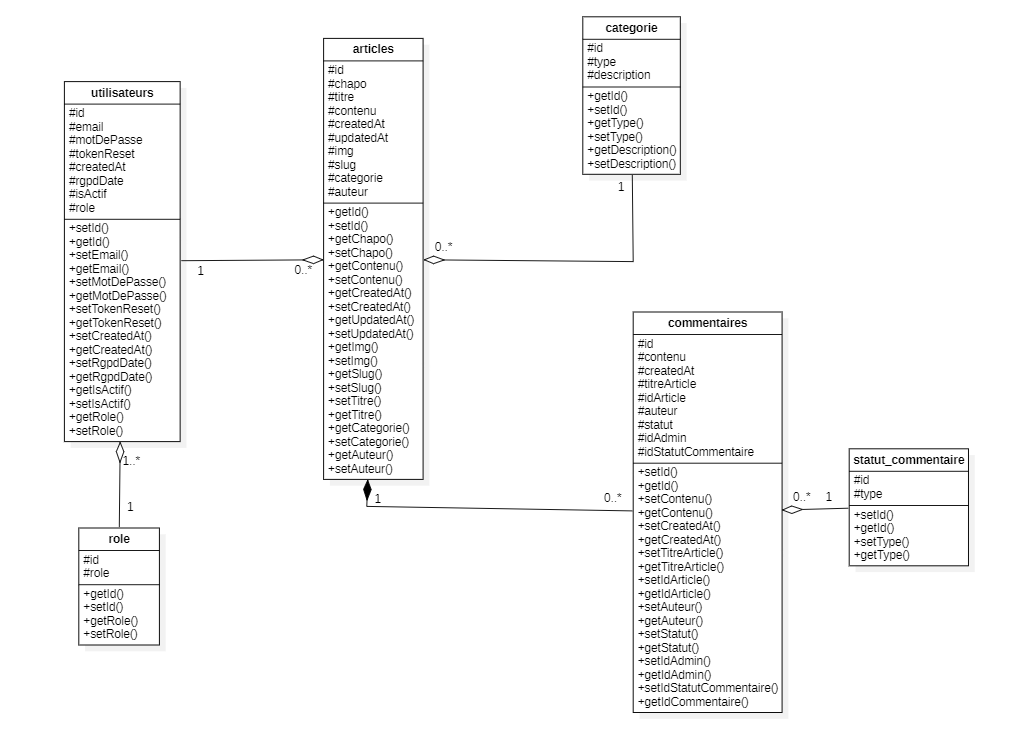
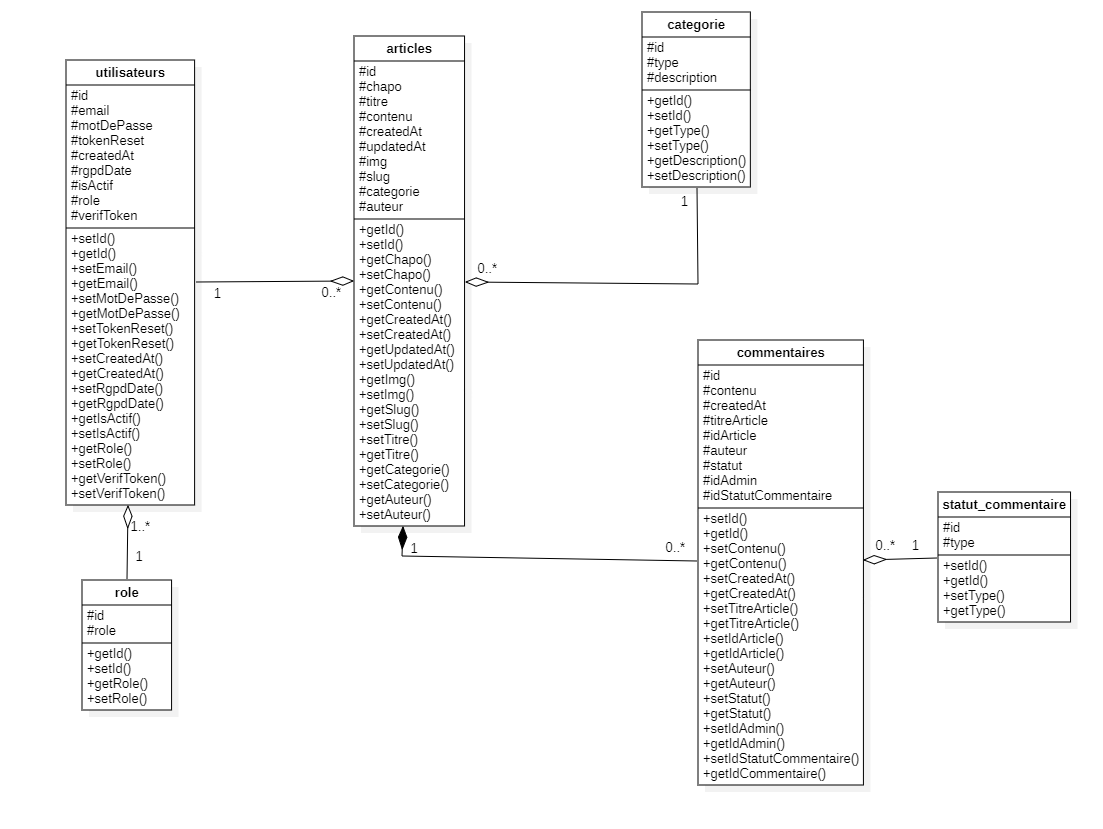
last change, fixed diagramme and error views

Changed region(s): [[0.0608, 0.0, 0.699, 0.8552], [0.4255, 0.3971, 0.9725, 0.9469]]

diff --git a/templates/erreur.php b/templates/erreur.php
@@ -18,7 +18,7 @@
     <!-- Bootstrap icons-->
     <link href="https://cdn.jsdelivr.net/npm/bootstrap-icons@1.8.1/font/bootstrap-icons.css" rel="stylesheet" />
     <!-- Core theme CSS (includes Bootstrap)-->
-    <link href="/theme/css/styles.css" rel="stylesheet" />
+    <link href="/assets/css/styles.css" rel="stylesheet" />
 
 </head>
 
